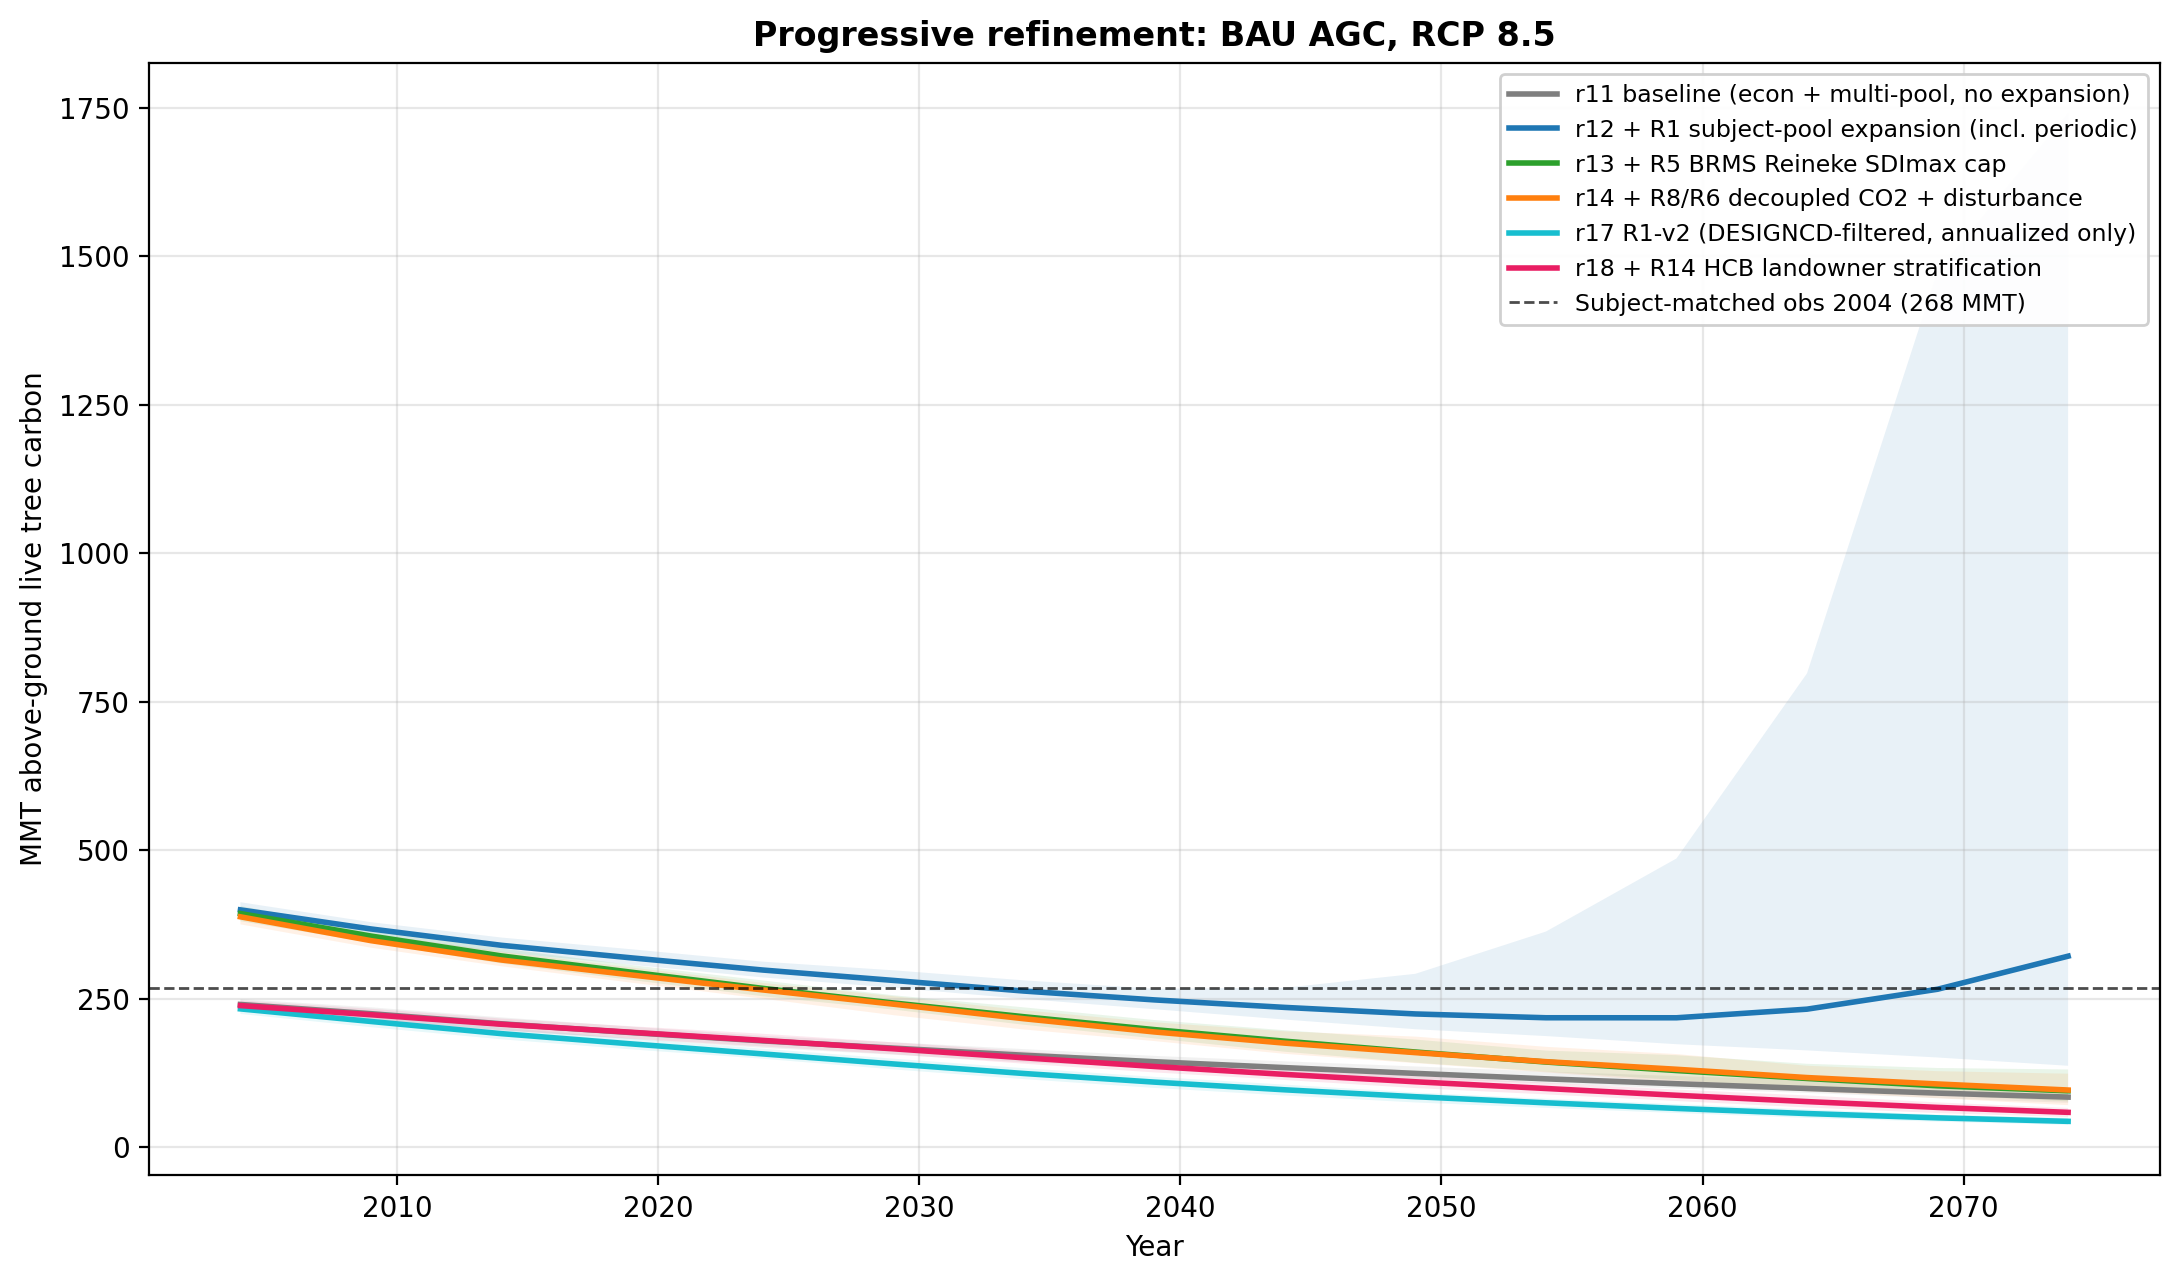
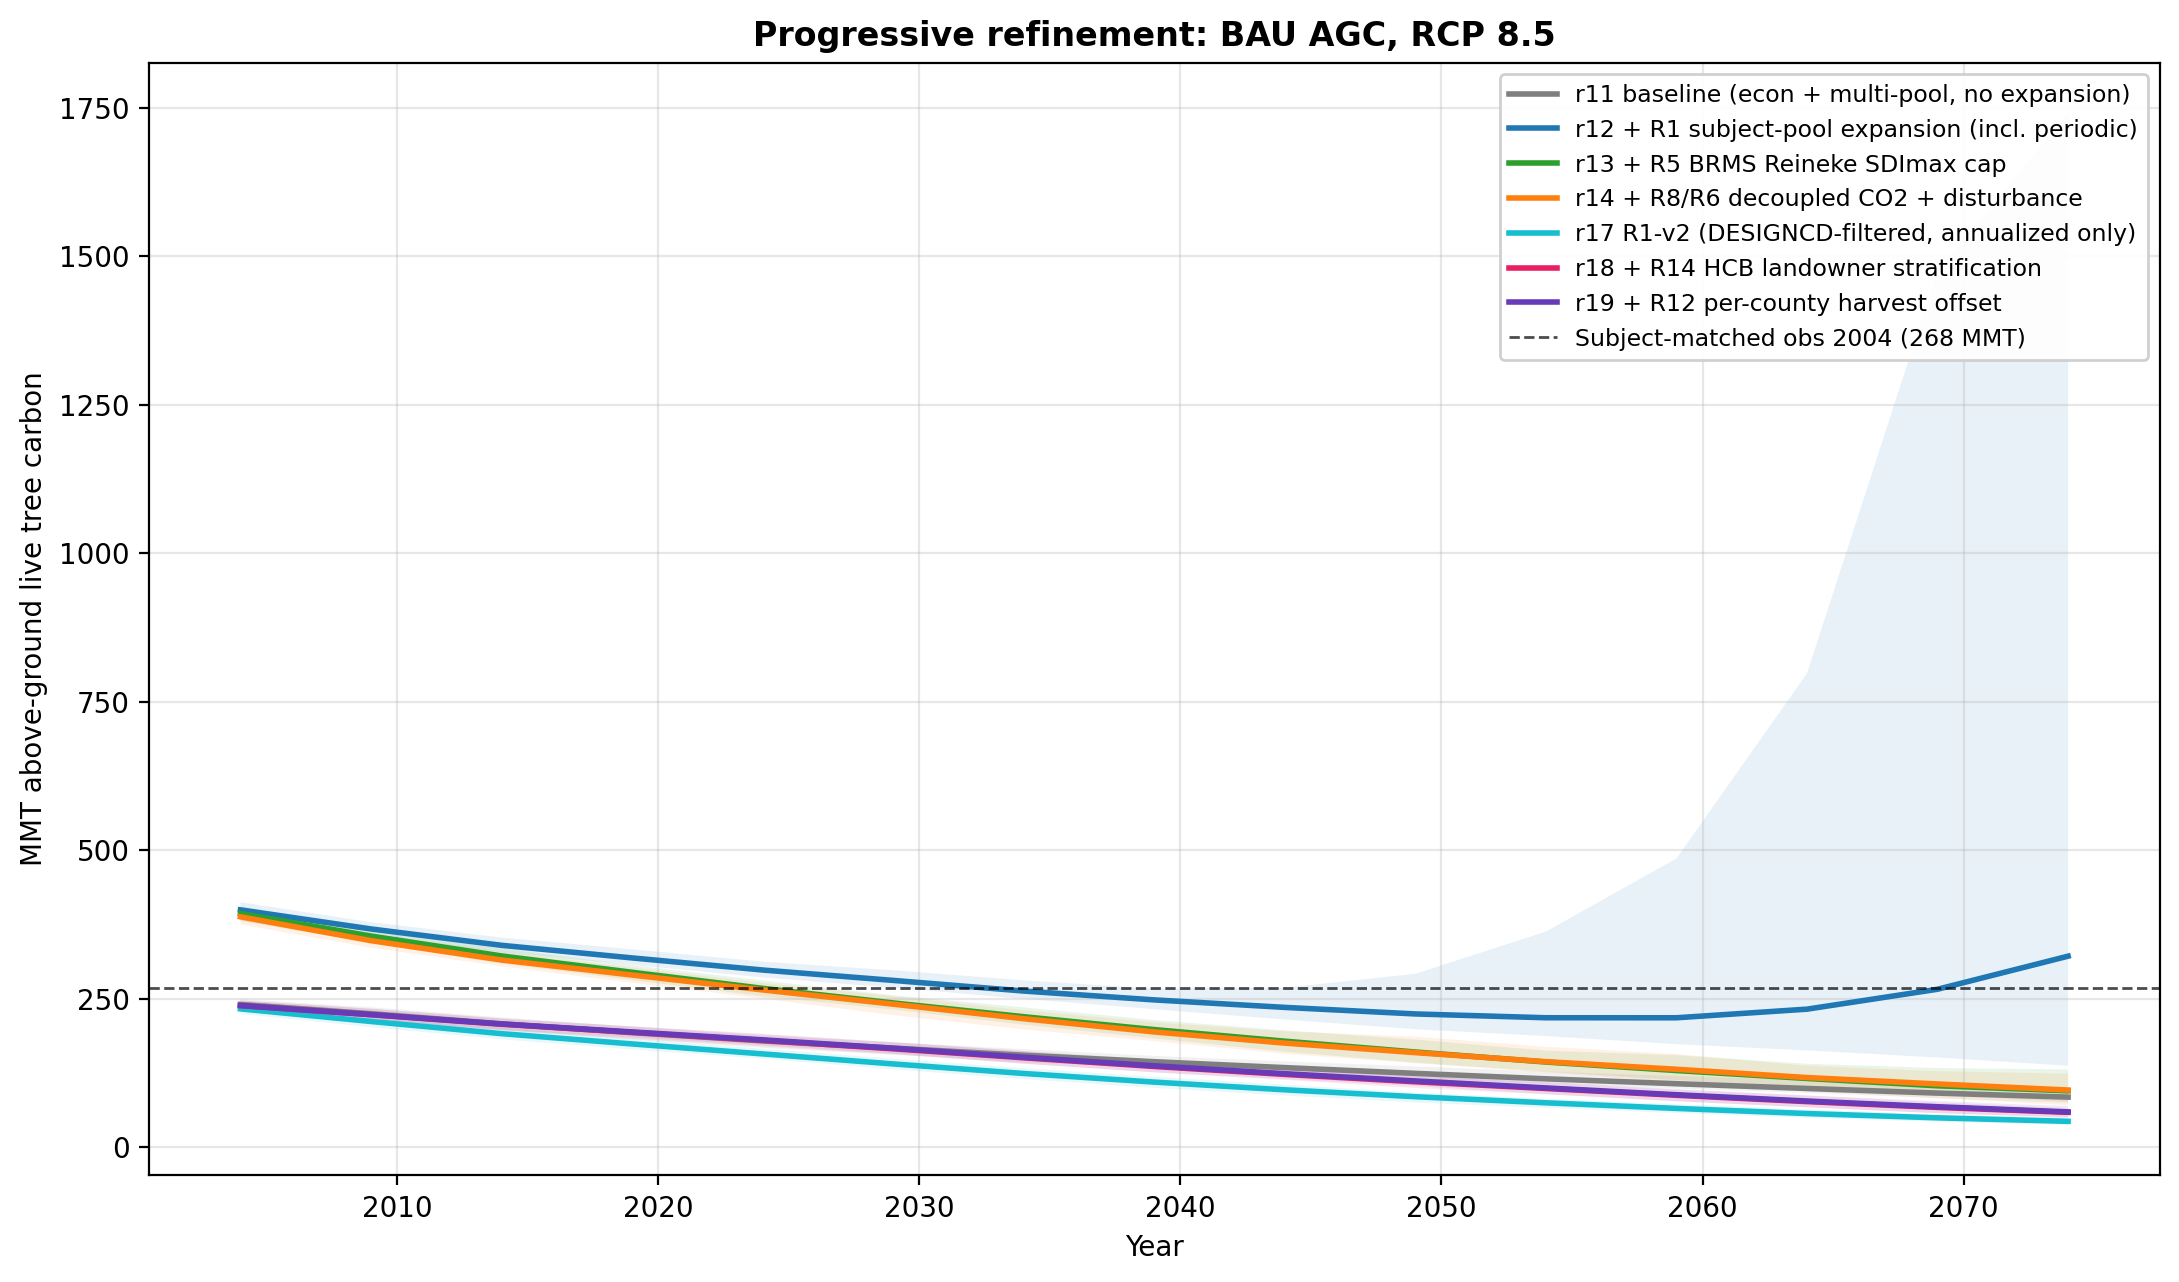
r19 landed: small marginal effect of R12 county offset on top of r18
R19 = r18 + R12 per-county harvest rate multiplier. Cardinal jobs
8957591-8957595 completed, all 4 CSVs landed. R12 county-mult lookup
loaded with 16 county rows and multiplier range [0.30, 2.50] (capped).

Effect on 2074 BAU AGC vs r18:
  RCP 4.5 wear      48.7 -> 49.3   (+0.6)
  RCP 4.5 wear+econ 44.3 -> 46.1   (+1.8)
  RCP 8.5 wear      58.6 -> 59.3   (+0.7)
  RCP 8.5 wear+econ 52.4 -> 55.4   (+3.0)

CV against subject-matched observed FIA (RMSE / bias):
  r17 RCP4.5 wear:  22.4 / -20.1
  r18 RCP4.5 wear:  14.5 /  -5.8   <- dominant win from R14
  r19 RCP4.5 wear:  14.6 /  -4.7   <- modest extra improvement

R12 captures real spatial variation in harvest behavior (Aroostook 0.42x,
Sagadahoc capped 2.5x) but provides only marginal calibration improvement
over R14's owner stratification. Both retained in canonical pipeline as
orthogonal refinements: R12 = where, R14 = who.

Updates:
- state_summary_progression/state_*_r19_ci.csv x 4 added
- subject_matched_cv/cv_{metrics,residuals}_r17_r18_r19.csv added
- viz/build_progression_figure.py extended to r19
- figures/fig_progression_rcp{45,85}.png updated
- CHANGELOG.md r19 entry refreshed with results

diff --git a/viz/build_progression_figure.py b/viz/build_progression_figure.py
@@ -30,6 +30,7 @@ TAG_DIRS = {
     "r16": "state_summary_progression",
     "r17": "state_summary_progression",
     "r18": "state_summary_progression",
+    "r19": "state_summary_progression",
 }
 TAG_REFINEMENT = {
     "r11": "r11 baseline (econ + multi-pool, no expansion)",
@@ -40,11 +41,12 @@ TAG_REFINEMENT = {
     "r16": "r16 + R4-VCC Potter species climate",
     "r17": "r17 R1-v2 (DESIGNCD-filtered, annualized only)",
     "r18": "r18 + R14 HCB landowner stratification",
+    "r19": "r19 + R12 per-county harvest offset",
 }
 TAG_COLORS = {
     "r11": "#7f7f7f", "r12": "#1f77b4", "r13": "#2ca02c",
     "r14": "#ff7f0e", "r15": "#9467bd", "r16": "#d62728",
-    "r17": "#17becf", "r18": "#e91e63",
+    "r17": "#17becf", "r18": "#e91e63", "r19": "#673ab7",
 }
 
 # Subject-matched observed (from r11 hindcast validation work)

diff --git a/CHANGELOG.md b/CHANGELOG.md
@@ -1,10 +1,11 @@
 # Changelog
 
-## r19 — 29 April 2026 (in flight)
+## r19 — 29 April 2026 (landed)
 - Stack R12 county harvest offset on top of r18's R14 owner stratification
 - Patched `R/06_projection_engine.R` with `get_county_harvest_mult()` helper modeled after `get_owner_harvest_mult()`. Reads `config/maine_county_harvest_calibration.csv`, returns `rate_relative_to_statewide` capped to [0.3, 2.5]
 - target_prob = base × Q × county_mult × owner_mult
-- Cardinal jobs 8957591–8957594 + expansion 8957595, ETA ~3.5 hr
+- **Result:** small marginal effect over r18 (+0.6 to +3 MMT 2074 AGC). RMSE essentially unchanged (14.5 → 14.6); bias improves marginally (−5.8 → −4.7 RCP4.5 wear, −0.1 → +0.4 RCP8.5 wear). The county multiplier captures real spatial variation but the dominant calibration win came from R14.
+- Both R12 and R14 retained in canonical pipeline (orthogonal effects)
 
 ## r18 — 29 April 2026 (active landowner-stratified pipeline)
 - Added Harris–Caputo–Butler 2025 landowner stratification (R14) — **landed in v2**